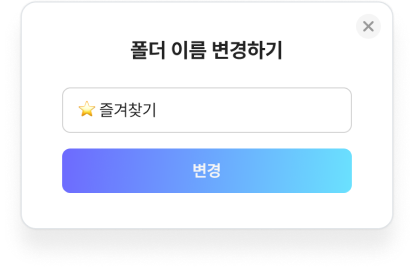
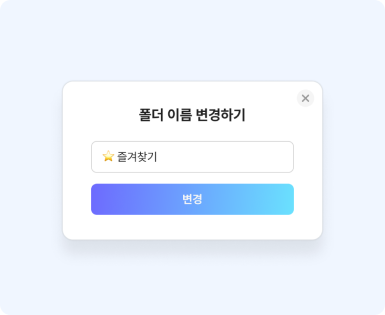
Home Page Managed Section Tablet 반응형 구현

Changed region(s): [[0.0935, 0.2963, 0.9351, 0.8593], [0.3117, 0.1481, 0.6857, 0.237], [0.8727, 0.0593, 0.9039, 0.1185]]

diff --git a/widgets/home/ManagedSection.tsx b/widgets/home/ManagedSection.tsx
@@ -1,11 +1,16 @@
 import React from "react";
 import managed_section_img from "@/public/img/home/managed_section.png";
 import Image from "next/image";
+import { cn } from "@/utils/tailwind";
 
 const ManagedSection = () => {
   return (
     <section className="mb-[50px] mt-[100px] flex items-center justify-center gap-[157px]">
       <Image
+        className={cn(
+          "tablet:w-[385px] tablet:h-[315px]",
+          "web:w-[550px] web:h-[450px]",
+        )}
         src={managed_section_img}
         alt="managed_section_img"
         width={550}
